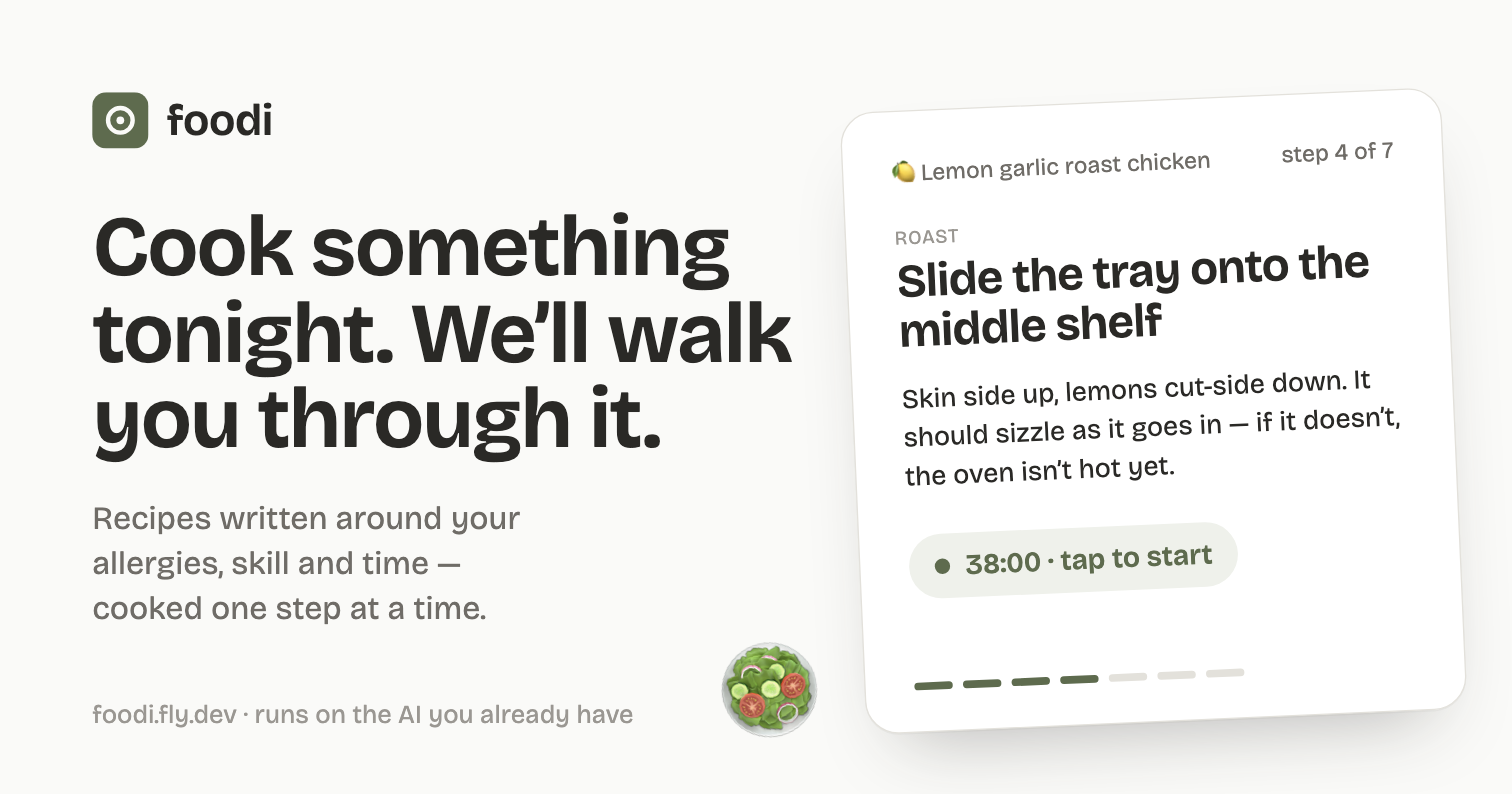
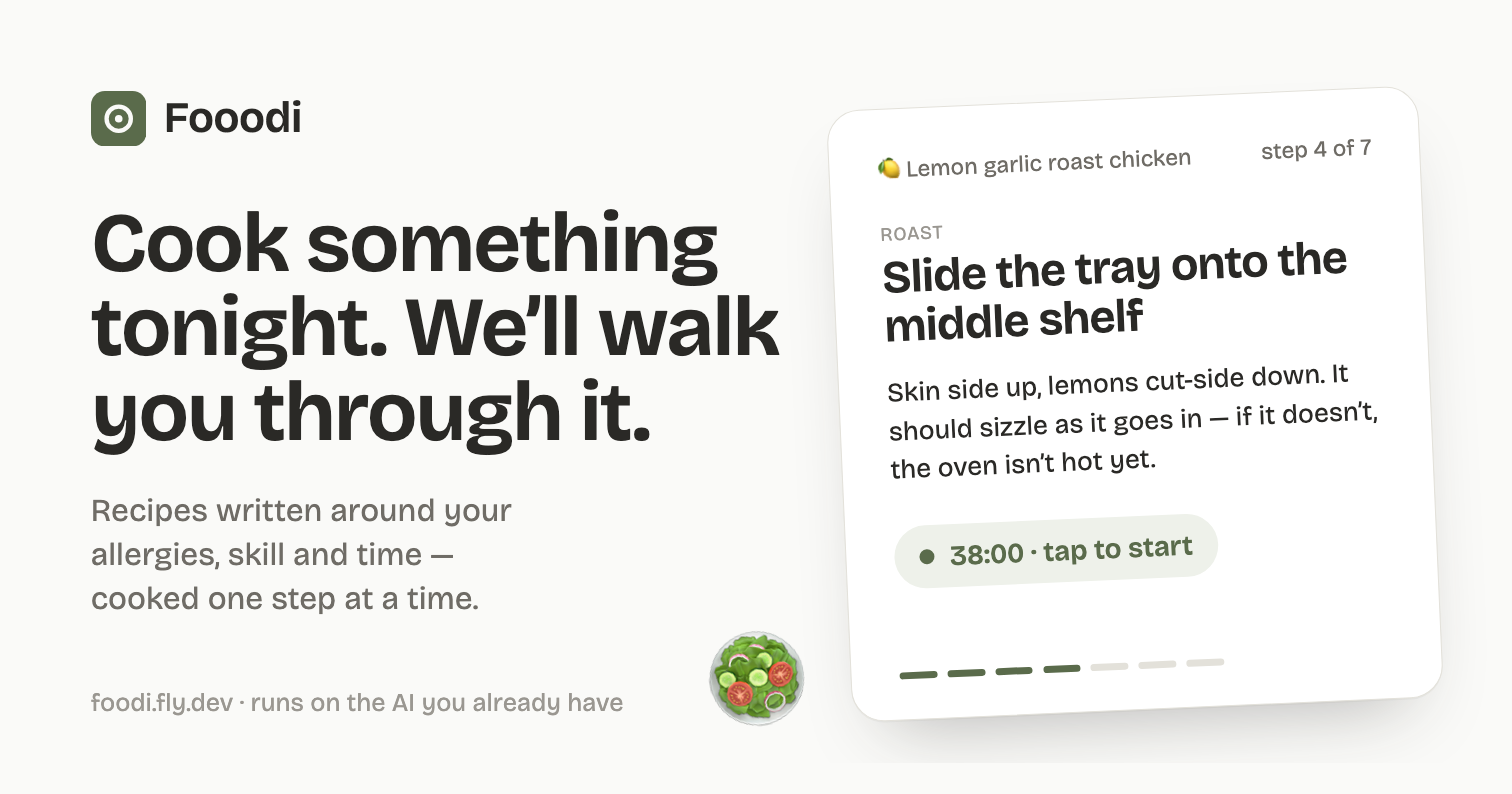
[fix] Brand: spell the app name "Fooodi" everywhere it's shown
The App Store listing is "Fooodi" (three o's); the app displayed "foodi".
Rename the shown brand name across the web app shell, Logo, manifest,
server share metadata and user-facing messages/errors, the house
kitchen account (with a guarded migration for existing DBs), and
re-render the OG share card and README banner.

Technical identifiers are intentionally unchanged: the @foodi/shared
package, @foodi handle, localStorage keys, FOODI_* env vars, the iOS
bundle id, foodi.fly.dev and the Xcode project name.

diff --git a/server/src/share.ts b/server/src/share.ts
@@ -23,15 +23,15 @@ export interface ShareTags {
 
 export const SHARE_START = '<!-- share:start -->';
 export const SHARE_END = '<!-- share:end -->';
-const SITE_NAME = 'foodi';
+const SITE_NAME = 'Fooodi';
 const TAGLINE = 'Guided recipes, written around you — allergies, skill, time, what’s in the kitchen — cooked one step at a time with the AI you already have.';
 
 export function defaultTags(origin: string): ShareTags {
   return {
-    title: 'foodi — cook something tonight, we’ll walk you through it',
+    title: 'Fooodi — cook something tonight, we’ll walk you through it',
     description: TAGLINE,
     image: `${origin}/og.png`,
-    imageAlt: 'foodi: a recipe card with step-by-step cooking and a timer',
+    imageAlt: 'Fooodi: a recipe card with step-by-step cooking and a timer',
     url: `${origin}/`,
     type: 'website',
   };
@@ -103,8 +103,8 @@ export function tagsForPath(db: Db, origin: string, path: string): ShareTags | n
     const facts = [c.totalMinutes ? `${c.totalMinutes} min` : '', c.servings ? `serves ${c.servings}` : ''].filter(Boolean).join(' · ');
     return {
       ...base,
-      title: `${c.emoji ? `${c.emoji} ` : ''}${r.title} — foodi`,
-      description: clip(`${c.summary ?? ''}${facts ? ` (${facts})` : ''} By ${r.display_name ?? `@${r.handle}`} on foodi.`, 200),
+      title: `${c.emoji ? `${c.emoji} ` : ''}${r.title} — Fooodi`,
+      description: clip(`${c.summary ?? ''}${facts ? ` (${facts})` : ''} By ${r.display_name ?? `@${r.handle}`} on Fooodi.`, 200),
       image: cover ? `${origin}/share/recipes/${r.id}/cover.${cover.ext}` : base.image,
       imageAlt: cover ? `Photo of ${r.title}` : base.imageAlt,
       url: `${origin}/browse/${r.id}`,
@@ -122,7 +122,7 @@ export function tagsForPath(db: Db, origin: string, path: string): ShareTags | n
     if (!u) return null;
     return {
       ...base,
-      title: `${u.avatar_emoji} ${u.display_name ?? `@${u.handle}`} on foodi`,
+      title: `${u.avatar_emoji} ${u.display_name ?? `@${u.handle}`} on Fooodi`,
       description: clip(`${u.bio || `@${u.handle}`} · ${u.n} shared ${u.n === 1 ? 'recipe' : 'recipes'}.`, 200),
       url: `${origin}/app/u/${u.handle}`,
       type: 'profile',
@@ -139,7 +139,7 @@ export function tagsForPath(db: Db, origin: string, path: string): ShareTags | n
     if (!b) return null;
     return {
       ...base,
-      title: `${b.emoji} ${b.name} — a recipe book on foodi`,
+      title: `${b.emoji} ${b.name} — a recipe book on Fooodi`,
       description: clip(`${b.description || 'A recipe book'} · ${b.n} ${b.n === 1 ? 'recipe' : 'recipes'}, by ${b.display_name ?? `@${b.handle}`}.`, 200),
       url: `${origin}/app/books/${b.id}`,
       type: 'article',
@@ -157,7 +157,7 @@ export function tagsForPath(db: Db, origin: string, path: string): ShareTags | n
     if (!p) return null;
     return {
       ...base,
-      title: `${p.title} — foodi blog`,
+      title: `${p.title} — Fooodi blog`,
       description: clip(`${p.body.replace(/[#*_`>[\]()!-]/g, ' ')} — by ${p.display_name ?? `@${p.handle}`}`, 200),
       image: p.cover ? `${origin}/share/blog/${p.id}/cover.${p.ext}` : base.image,
       imageAlt: p.cover ? `Cover photo for ${p.title}` : base.imageAlt,
@@ -178,7 +178,7 @@ export function tagsForPath(db: Db, origin: string, path: string): ShareTags | n
     if (!l) return null;
     return {
       ...base,
-      title: `${l.title} · ${formatMoney(l.price_cents, l.currency)} — foodi shop`,
+      title: `${l.title} · ${formatMoney(l.price_cents, l.currency)} — Fooodi shop`,
       description: clip(`${l.description} — sold by ${l.display_name ?? `@${l.handle}`}.`, 200),
       image: l.cover ? `${origin}/share/shop/${l.id}/cover.${l.ext}` : base.image,
       imageAlt: l.cover ? `Photo of ${l.title}` : base.imageAlt,

diff --git a/client/src/components/KeyGuide.tsx b/client/src/components/KeyGuide.tsx
@@ -23,14 +23,14 @@ function stepsFor(vendor: GuideVendor): Step[] {
       { title: 'Create a free OpenAI platform account', detail: <>This is OpenAI’s developer site — separate from ChatGPT. A ChatGPT subscription doesn’t include it, and you don’t need one.</>, href: 'https://platform.openai.com/signup', cta: 'Open platform.openai.com ↗', art: <ArtAccount brand="OpenAI" /> },
       { title: 'Add $5 of credit', detail: <>{COST} Under Billing, add a payment method and buy $5. You can switch auto-recharge off.</>, href: 'https://platform.openai.com/settings/organization/billing/overview', cta: 'Open Billing ↗', art: <ArtCredit /> },
       { title: 'Create a secret key', detail: <>On the API keys page click <b>Create new secret key</b>, name it <b>foodi</b>, then <b>Copy</b>. It’s shown once — if you lose it, make another.</>, href: 'https://platform.openai.com/api-keys', cta: 'Open API keys ↗', art: <ArtKey label="Create new secret key" prefix="sk-proj-" /> },
-      { title: 'Paste it here', detail: <>foodi checks it with one tiny request (a fraction of a cent) and tells you if the account still needs credit. Then it’s encrypted and never shown again.</>, art: <ArtPaste /> },
+      { title: 'Paste it here', detail: <>Fooodi checks it with one tiny request (a fraction of a cent) and tells you if the account still needs credit. Then it’s encrypted and never shown again.</>, art: <ArtPaste /> },
     ];
   }
   return [
     { title: 'Create a free Anthropic Console account', detail: <>The Console is Anthropic’s developer site — separate from the Claude app. A Claude subscription doesn’t include it, and you don’t need one.</>, href: 'https://console.anthropic.com/', cta: 'Open console.anthropic.com ↗', art: <ArtAccount brand="Anthropic" /> },
     { title: 'Add $5 of credit', detail: <>{COST} Under Billing, add a payment method and buy $5 of credit.</>, href: 'https://console.anthropic.com/settings/billing', cta: 'Open Billing ↗', art: <ArtCredit /> },
     { title: 'Create an API key', detail: <>On the API keys page click <b>Create Key</b>, name it <b>foodi</b>, then <b>Copy</b>. It’s shown once — if you lose it, make another.</>, href: 'https://console.anthropic.com/settings/keys', cta: 'Open API keys ↗', art: <ArtKey label="Create Key" prefix="sk-ant-" /> },
-    { title: 'Paste it here', detail: <>foodi checks it with one tiny request (a fraction of a cent) and tells you if the account still needs credit. Then it’s encrypted and never shown again.</>, art: <ArtPaste /> },
+    { title: 'Paste it here', detail: <>Fooodi checks it with one tiny request (a fraction of a cent) and tells you if the account still needs credit. Then it’s encrypted and never shown again.</>, art: <ArtPaste /> },
   ];
 }
 
@@ -225,7 +225,7 @@ function ArtKey({ label, prefix }: { label: string; prefix: string }) {
 
 function ArtPaste() {
   return (
-    <Window title="foodi">
+    <Window title="Fooodi">
       <rect x="22" y="48" width="140" height="22" rx="6" fill="var(--ground)" stroke="var(--sage)" />
       <text x="30" y="62" fontSize="8" fill="var(--ink)" fontFamily="ui-monospace, monospace">
         sk-••••••••••••••••

diff --git a/client/src/routes/connect.tsx b/client/src/routes/connect.tsx
@@ -52,23 +52,23 @@ export function Connect() {
         <div className="stack">
           <h1>🔌 Connect your AI</h1>
           <p className="muted measure">
-            foodi writes recipes with an AI account you control — an OpenAI or Anthropic developer account with a few dollars of credit (about 2¢ a recipe). Nothing is billed by foodi. Pick one and we’ll walk you through it in four steps; swap or disconnect any time in Settings.
+            Fooodi writes recipes with an AI account you control — an OpenAI or Anthropic developer account with a few dollars of credit (about 2¢ a recipe). Nothing is billed by Fooodi. Pick one and we’ll walk you through it in four steps; swap or disconnect any time in Settings.
           </p>
         </div>
         {me.vendor && (
           <div className="notice notice-sage">
-            Connected: <b>{me.vendor === 'anthropic' ? 'Claude' : me.vendor === 'openai' ? 'OpenAI' : 'mock account'}</b> ({me.credentialKind === 'oauth' ? 'linked account' : me.credentialKind === 'managed' ? 'provided by foodi' : 'API key'}).{' '}
+            Connected: <b>{me.vendor === 'anthropic' ? 'Claude' : me.vendor === 'openai' ? 'OpenAI' : 'mock account'}</b> ({me.credentialKind === 'oauth' ? 'linked account' : me.credentialKind === 'managed' ? 'provided by Fooodi' : 'API key'}).{' '}
             <Link to={after}>Continue →</Link>
           </div>
         )}
         {me.managedAvailable && (
           <div className="connect-managed">
             <div className="stack" style={{ gap: 'var(--s-2)' }}>
-              <h2>✨ Use foodi’s AI — no setup</h2>
-              <p className="muted measure">One tap and you can cook. foodi gives you an OpenAI key of your own, with a daily allowance. Bring your own key any time for more.</p>
+              <h2>✨ Use Fooodi’s AI — no setup</h2>
+              <p className="muted measure">One tap and you can cook. Fooodi gives you an OpenAI key of your own, with a daily allowance. Bring your own key any time for more.</p>
             </div>
             <button type="button" className="btn btn-primary btn-lg" onClick={useFoodisAi} disabled={gettingManaged}>
-              {gettingManaged ? 'Setting up…' : 'Start cooking with foodi’s AI'}
+              {gettingManaged ? 'Setting up…' : 'Start cooking with Fooodi’s AI'}
             </button>
             {error && (
               <p className="error-text" role="alert">
@@ -93,7 +93,7 @@ export function Connect() {
             <a key={p.id} href={`/api/auth/${p.id}/start?returnTo=${encodeURIComponent(after)}`} className="connect-card">
               <span className="connect-emoji" aria-hidden="true">{p.vendor === 'mock' ? '🧪' : '🔗'}</span>
               <h3>{p.vendor === 'mock' ? 'Mock account' : p.label.replace(/^Continue with /, 'Link ')}</h3>
-              <p className="muted small">{p.note ?? 'Links the account to your foodi login and uses it for recipes.'}</p>
+              <p className="muted small">{p.note ?? 'Links the account to your Fooodi login and uses it for recipes.'}</p>
             </a>
           ))}
         </div>

diff --git a/client/src/routes/app/settings.tsx b/client/src/routes/app/settings.tsx
@@ -120,11 +120,11 @@ export function SettingsPage() {
             {me.vendor && me.managed ? (
               <div className="notice notice-sage stack" style={{ gap: 'var(--s-2)' }}>
                 <span>
-                  <b>OpenAI, provided by foodi</b> · {me.managed.usedToday} of {me.managed.limitPerDay || '∞'} recipes used today
+                  <b>OpenAI, provided by Fooodi</b> · {me.managed.usedToday} of {me.managed.limitPerDay || '∞'} recipes used today
                   {me.credentialUpdatedAt ? ` · since ${timeAgo(me.credentialUpdatedAt)}` : ''}
                 </span>
                 <span className="small">
-                  Your own key on foodi’s OpenAI organisation, with a daily allowance{me.managed.images ? '' : ' (photos come from the library)'}. Connect your own account below for more.
+                  Your own key on Fooodi’s OpenAI organisation, with a daily allowance{me.managed.images ? '' : ' (photos come from the library)'}. Connect your own account below for more.
                 </span>
               </div>
             ) : me.vendor ? (
@@ -136,7 +136,7 @@ export function SettingsPage() {
             ) : me.managedAvailable ? (
               <div className="notice notice-sage row-between" style={{ gap: 'var(--s-3)', flexWrap: 'wrap' }}>
                 <span>
-                  <b>Nothing connected.</b> foodi can give you an OpenAI key right now.
+                  <b>Nothing connected.</b> Fooodi can give you an OpenAI key right now.
                 </span>
                 <button
                   type="button"
@@ -151,7 +151,7 @@ export function SettingsPage() {
                     }
                   }}
                 >
-                  ✨ Use foodi’s AI
+                  ✨ Use Fooodi’s AI
                 </button>
               </div>
             ) : (
@@ -159,8 +159,8 @@ export function SettingsPage() {
             )}
             <p className="muted small measure">
               {me.managed
-                ? 'Recipes written on foodi’s key are billed to foodi, which is why there’s a daily allowance. The key is encrypted at rest and never shown.'
-                : 'Recipes are written with this account and billed to it, never to foodi. The key is encrypted with AES-256-GCM on this machine, only decrypted to call the vendor, and never shown again — only its last four characters are kept in the clear.'}
+                ? 'Recipes written on Fooodi’s key are billed to Fooodi, which is why there’s a daily allowance. The key is encrypted at rest and never shown.'
+                : 'Recipes are written with this account and billed to it, never to Fooodi. The key is encrypted with AES-256-GCM on this machine, only decrypted to call the vendor, and never shown again — only its last four characters are kept in the clear.'}
             </p>
           </div>
 

diff --git a/server/src/app.test.ts b/server/src/app.test.ts
@@ -1614,7 +1614,7 @@ describe('link previews', () => {
       await request(b.base).post(`/api/recipes/${id}/photo/shuffle`).set('cookie', ada).set('origin', ORIGIN);
       await request(b.base).post(`/api/social/posts`).set('cookie', ada).set('origin', ORIGIN).send({ recipeId: id, caption: 'Soup night', mediaIds: [] });
       const tags = tagsForPath(b.db, origin, `/app/recipes/${id}`)!;
-      expect(tags.title).toBe('🥣 Ada & the soup — foodi');
+      expect(tags.title).toBe('🥣 Ada & the soup — Fooodi');
       expect(tags.description).toContain('A soup for sharing. (20 min · serves 2)');
       expect(tags.image).toBe(`${origin}/share/recipes/${id}/cover.png`);
       expect(tags.url).toBe(`${origin}/browse/${id}`); // the public page, so crawlers and previews land somewhere they can read
@@ -1626,9 +1626,9 @@ describe('link previews', () => {
 
       // People and the house kitchen's books; the featured list is public and only lists house recipes with photos.
       const me = await request(b.base).get('/api/auth/me').set('cookie', ada);
-      expect(tagsForPath(b.db, origin, `/app/u/${me.body.handle}`)!.title).toContain('on foodi');
+      expect(tagsForPath(b.db, origin, `/app/u/${me.body.handle}`)!.title).toContain('on Fooodi');
       const book = b.db.prepare(`SELECT id FROM recipe_books WHERE visibility = 'public' LIMIT 1`).get() as { id: string };
-      expect(tagsForPath(b.db, origin, `/app/books/${book.id}`)!.title).toContain('recipe book on foodi');
+      expect(tagsForPath(b.db, origin, `/app/books/${book.id}`)!.title).toContain('recipe book on Fooodi');
       const featured = await request(b.base).get('/share/featured.json');
       expect(featured.status).toBe(200);
       expect(featured.body.total).toBeGreaterThan(50);
@@ -1953,7 +1953,7 @@ describe('managed OpenAI keys', () => {
       expect(g1.status).toBe(201);
       const g2 = await request(b.base).post('/api/recipes/generate?sync=1').set('cookie', nell).set('origin', ORIGIN).send({ prompt: 'more soup' });
       expect(g2.status).toBe(429);
-      expect(g2.body.error.message).toContain("foodi's AI");
+      expect(g2.body.error.message).toContain("Fooodi's AI");
       expect((await request(b.base).get('/api/auth/me').set('cookie', nell)).body.managed.usedToday).toBe(1);
 
       // Fridge checks on foodi's key: the same allowance, counted apart from recipes.

diff --git a/client/index.html b/client/index.html
@@ -6,23 +6,23 @@
     <meta name="color-scheme" content="light dark" />
     <meta name="theme-color" content="#5a6b4b" />
     <!-- share:start -->
-    <title>foodi — cook something tonight, we’ll walk you through it</title>
+    <title>Fooodi — cook something tonight, we’ll walk you through it</title>
     <meta name="description" content="Guided recipes, written around you — allergies, skill, time, what’s in the kitchen — cooked one step at a time with the AI you already have." />
-    <meta property="og:site_name" content="foodi" />
+    <meta property="og:site_name" content="Fooodi" />
     <meta property="og:type" content="website" />
-    <meta property="og:title" content="foodi — cook something tonight, we’ll walk you through it" />
+    <meta property="og:title" content="Fooodi — cook something tonight, we’ll walk you through it" />
     <meta property="og:description" content="Guided recipes, written around you — allergies, skill, time, what’s in the kitchen — cooked one step at a time with the AI you already have." />
     <meta property="og:image" content="/og.png" />
-    <meta property="og:image:alt" content="foodi: a recipe card with step-by-step cooking and a timer" />
+    <meta property="og:image:alt" content="Fooodi: a recipe card with step-by-step cooking and a timer" />
     <meta name="twitter:card" content="summary_large_image" />
-    <meta name="twitter:title" content="foodi — cook something tonight, we’ll walk you through it" />
+    <meta name="twitter:title" content="Fooodi — cook something tonight, we’ll walk you through it" />
     <meta name="twitter:description" content="Guided recipes, written around you — allergies, skill, time, what’s in the kitchen — cooked one step at a time with the AI you already have." />
     <meta name="twitter:image" content="/og.png" />
     <!-- share:end -->
     <link rel="icon" href="/favicon.svg" type="image/svg+xml" />
     <link rel="apple-touch-icon" href="/apple-touch-icon.png" />
     <link rel="manifest" href="/manifest.webmanifest" />
-    <meta name="apple-mobile-web-app-title" content="foodi" />
+    <meta name="apple-mobile-web-app-title" content="Fooodi" />
     <meta name="apple-mobile-web-app-capable" content="yes" />
     <meta name="apple-mobile-web-app-status-bar-style" content="default" />
   </head>

diff --git a/client/src/routes/browse.tsx b/client/src/routes/browse.tsx
@@ -105,7 +105,7 @@ export function BrowsePage() {
       <main className="browse-main">
         <section className="browse-hero">
           <h1>What are you cooking tonight?</h1>
-          <p className="muted">Recipes from the foodi kitchen and its cooks — every one has a photo, timings and diet labels. No account needed to look.</p>
+          <p className="muted">Recipes from the Fooodi kitchen and its cooks — every one has a photo, timings and diet labels. No account needed to look.</p>
           <form className="browse-search" onSubmit={search} role="search">
             <label htmlFor="browse-q" className="sr-only">
               Search recipes
@@ -188,7 +188,7 @@ export function BrowsePage() {
         )}
       </main>
       <footer className="browse-foot muted small">
-        <Link to="/">foodi</Link> — guided recipes, your AI. {data.me ? '' : 'Create a free account to cook these step by step.'}
+        <Link to="/">Fooodi</Link> — guided recipes, your AI. {data.me ? '' : 'Create a free account to cook these step by step.'}
       </footer>
     </div>
   );
@@ -269,7 +269,7 @@ export function BrowseRecipePage() {
             </ol>
             <div className="browse-wall">
               <p>
-                <b>The method is for members.</b> Create a free account and foodi walks you through {recipe.stepCount} steps one at a time, with timers, a shopping list, and recipes written for your own diet.
+                <b>The method is for members.</b> Create a free account and Fooodi walks you through {recipe.stepCount} steps one at a time, with timers, a shopping list, and recipes written for your own diet.
               </p>
               <div className="row">
                 <Link to={`/?returnTo=${encodeURIComponent(returnTo)}#signin`} className="btn btn-primary">
@@ -283,7 +283,7 @@ export function BrowseRecipePage() {
           </section>
         </div>
       </main>
-      <Sheet open={join !== null} onClose={() => setJoin(null)} title="Join foodi — it’s free">
+      <Sheet open={join !== null} onClose={() => setJoin(null)} title="Join Fooodi — it’s free">
         <div className="stack">
           <p>
             To {join}, you need an account. It takes a minute, and you’ll land right back on <b>{recipe.title}</b>.

diff --git a/client/src/routes/admin/settings.tsx b/client/src/routes/admin/settings.tsx
@@ -52,7 +52,7 @@ export function AdminSettings() {
             <p className="hint">0 means no limit. Each person pays their own vendor bill; this only caps runaway use.</p>
           </div>
           <fieldset className="field" style={{ border: 0, padding: 0, margin: 0 }}>
-            <legend className="label">✨ foodi’s AI for new people</legend>
+            <legend className="label">✨ Fooodi’s AI for new people</legend>
             {server.managedKeys.configured ? (
               <p className="hint">
                 Organisation admin key configured{server.managedKeys.projectId ? ` · keys live in OpenAI project ${server.managedKeys.projectId}` : ' · a project is created on first use'}. Everything these keys generate is billed to that organisation.
@@ -67,14 +67,14 @@ export function AdminSettings() {
               </span>
             </label>
             <div className="field">
-              <label htmlFor="managedMax">Recipes per day on a foodi key</label>
+              <label htmlFor="managedMax">Recipes per day on a Fooodi key</label>
               <input id="managedMax" className="input" type="number" min={0} max={10000} value={s.managedGenerationsPerUserPerDay} onChange={(e) => setS({ ...s, managedGenerationsPerUserPerDay: Number(e.target.value) || 0 })} style={{ maxWidth: 160 }} />
               <p className="hint">Your bill: roughly a cent or two per recipe. 0 falls back to the global cap above.</p>
             </div>
             <label className="row" style={{ gap: 10 }}>
               <input type="checkbox" checked={s.managedImages} onChange={(e) => setS({ ...s, managedImages: e.target.checked })} />
               <span>
-                Let foodi keys generate photos <span className="muted small">— gpt-image-1, a few cents each; off means library photos</span>
+                Let Fooodi keys generate photos <span className="muted small">— gpt-image-1, a few cents each; off means library photos</span>
               </span>
             </label>
           </fieldset>

diff --git a/server/src/ai/service.ts b/server/src/ai/service.ts
@@ -30,7 +30,7 @@ export function createAiService(deps: { config: Config; db: Db; log: Logger; sto
     const max = Math.min(...caps);
     const since = new Date(Date.now() - 24 * 3600 * 1000).toISOString();
     const row = one<{ n: number }>(db, `SELECT COUNT(*) AS n FROM generations WHERE user_id = ? AND created_at > ? AND status = 'ok' AND kind = 'recipe'`, userId, since);
-    if ((row?.n ?? 0) + pending >= max) throw new HttpError(429, 'quota', managed ? `You've used today's ${max} recipes on foodi's AI. Connect your own OpenAI or Claude key in Settings for more, or try again tomorrow.` : `You've reached today's limit of ${max} recipes. Try again tomorrow.`);
+    if ((row?.n ?? 0) + pending >= max) throw new HttpError(429, 'quota', managed ? `You've used today's ${max} recipes on Fooodi's AI. Connect your own OpenAI or Claude key in Settings for more, or try again tomorrow.` : `You've reached today's limit of ${max} recipes. Try again tomorrow.`);
   }
 
   /** Everything that must be true before a generation is even queued. */
@@ -95,7 +95,7 @@ export function createAiService(deps: { config: Config; db: Db; log: Logger; sto
       // Fridge checks are the vision calls without a recipe (photo checks always carry one); a
       // failure the vendor still billed for counts too.
       const row = one<{ n: number }>(db, `SELECT COUNT(*) AS n FROM generations WHERE user_id = ? AND kind = 'vision' AND recipe_id IS NULL AND (status = 'ok' OR input_tokens IS NOT NULL OR output_tokens IS NOT NULL) AND created_at > ?`, userId, since);
-      if ((row?.n ?? 0) >= max) throw new HttpError(429, 'quota', `You've used today's ${max} fridge checks on foodi's AI. Connect your own OpenAI or Claude key in Settings for more, or try again tomorrow.`);
+      if ((row?.n ?? 0) >= max) throw new HttpError(429, 'quota', `You've used today's ${max} fridge checks on Fooodi's AI. Connect your own OpenAI or Claude key in Settings for more, or try again tomorrow.`);
     }
     const started = Date.now();
     try {

diff --git a/client/src/routes/landing.tsx b/client/src/routes/landing.tsx
@@ -63,7 +63,7 @@ export function Landing() {
               We’ll walk you through it.
             </h1>
             <p className="lede">
-              foodi writes recipes around your answers — allergies, skill, time, what’s in the kitchen — then guides you one step at a time with timers that
+              Fooodi writes recipes around your answers — allergies, skill, time, what’s in the kitchen — then guides you one step at a time with timers that
               start when you tap them. It runs on the AI account you already have.
             </p>
 
@@ -171,7 +171,7 @@ export function Landing() {
               <span className="how-n num">2</span>
               <div>
                 <h3>🔌 Connect the AI you already pay for</h3>
-                <p className="muted">An OpenAI or Anthropic developer account with $5 of credit — about 2¢ a recipe, and we walk you through it screen by screen. foodi never bills you; your account does the writing. Or skip it and cook from the house kitchen.</p>
+                <p className="muted">An OpenAI or Anthropic developer account with $5 of credit — about 2¢ a recipe, and we walk you through it screen by screen. Fooodi never bills you; your account does the writing. Or skip it and cook from the house kitchen.</p>
               </div>
             </li>
             <li>
@@ -201,7 +201,7 @@ export function Landing() {
       </main>
 
       <footer className="landing-foot">
-        <span className="muted small">foodi — guided recipes, your AI.</span>
+        <span className="muted small">Fooodi — guided recipes, your AI.</span>
         <nav className="landing-foot-links" aria-label="More">
           <a href="https://github.com/danieldvorkin/foodi" className="muted small" target="_blank" rel="noopener noreferrer">
             GitHub

diff --git a/server/src/auth/providers/api-key.ts b/server/src/auth/providers/api-key.ts
@@ -40,7 +40,7 @@ export function createApiKeyProviders(config: Config, fetchOverride?: typeof fet
       if (!probe.ok) {
         const text = await bodyText(probe);
         if (/credit balance|billing|purchase credits/i.test(text)) return { ok: false, reason: NO_CREDITS.anthropic };
-        if (probe.status === 404 || /not_found_error|model/i.test(text)) return { ok: false, reason: `That key can’t use the model foodi needs (${config.anthropic.model}). Check the account’s model access.` };
+        if (probe.status === 404 || /not_found_error|model/i.test(text)) return { ok: false, reason: `That key can’t use the model Fooodi needs (${config.anthropic.model}). Check the account’s model access.` };
       }
       return { ok: true, identity: { provider: 'anthropic', subject: subjectFor('anthropic', apiKey), email: null, emailVerified: false, displayName: null } };
     },
@@ -68,7 +68,7 @@ export function createApiKeyProviders(config: Config, fetchOverride?: typeof fet
       if (!probe.ok) {
         const text = await bodyText(probe);
         if (probe.status === 429 && /insufficient_quota/i.test(text)) return { ok: false, reason: NO_CREDITS.openai };
-        if (probe.status === 404 || /model_not_found|does not exist/i.test(text)) return { ok: false, reason: `That key can’t use the model foodi needs (${config.openai.model}). Check the account’s model access.` };
+        if (probe.status === 404 || /model_not_found|does not exist/i.test(text)) return { ok: false, reason: `That key can’t use the model Fooodi needs (${config.openai.model}). Check the account’s model access.` };
       }
       return { ok: true, identity: { provider: 'openai-key', subject: subjectFor('openai', apiKey), email: null, emailVerified: false, displayName: null } };
     },

diff --git a/client/src/routes/__tests__/connect.test.tsx b/client/src/routes/__tests__/connect.test.tsx
@@ -45,14 +45,14 @@ function mount(path: string) {
 
 describe('Connect', () => {
   beforeEach(() => window.localStorage.clear());
-  it('offers foodi’s AI first when the server hands out keys, and one tap gets you cooking', async () => {
+  it('offers Fooodi’s AI first when the server hands out keys, and one tap gets you cooking', async () => {
     const calls = stubApi({
       'GET /api/auth/me': me,
       'GET /api/auth/providers': providers,
       'POST /api/auth/managed': { ...me, vendor: 'openai', credentialKind: 'managed', managedAvailable: false, managed: { limitPerDay: 10, usedToday: 0, images: false } },
     });
     const router = mount('/connect');
-    const button = await screen.findByRole('button', { name: 'Start cooking with foodi’s AI' });
+    const button = await screen.findByRole('button', { name: 'Start cooking with Fooodi’s AI' });
     expect(screen.getByRole('link', { name: /OpenAI/ })).toHaveAttribute('href', '/connect/openai'); // your own is still right there
     await userEvent.setup().click(button);
     await waitFor(() => expect(router.state.location.pathname).toBe('/app'));
@@ -63,7 +63,7 @@ describe('Connect', () => {
     stubApi({ 'GET /api/auth/me': { ...me, managedAvailable: false }, 'GET /api/auth/providers': providers });
     mount('/connect');
     expect(await screen.findByRole('heading', { name: /Connect your AI/ })).toBeInTheDocument();
-    expect(screen.queryByRole('button', { name: /foodi’s AI/ })).toBeNull();
+    expect(screen.queryByRole('button', { name: /Fooodi’s AI/ })).toBeNull();
   });
 
   it('walks through bringing your own key in four illustrated steps, remembers ticks, and connects', async () => {
